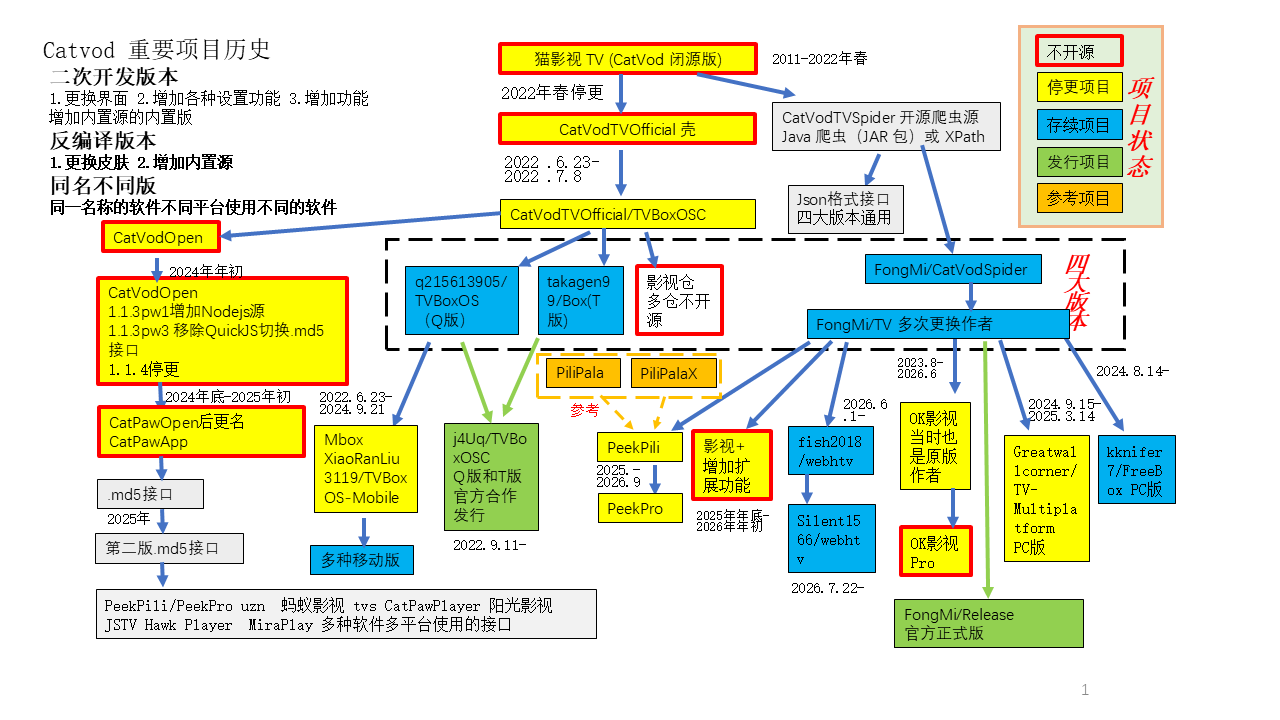
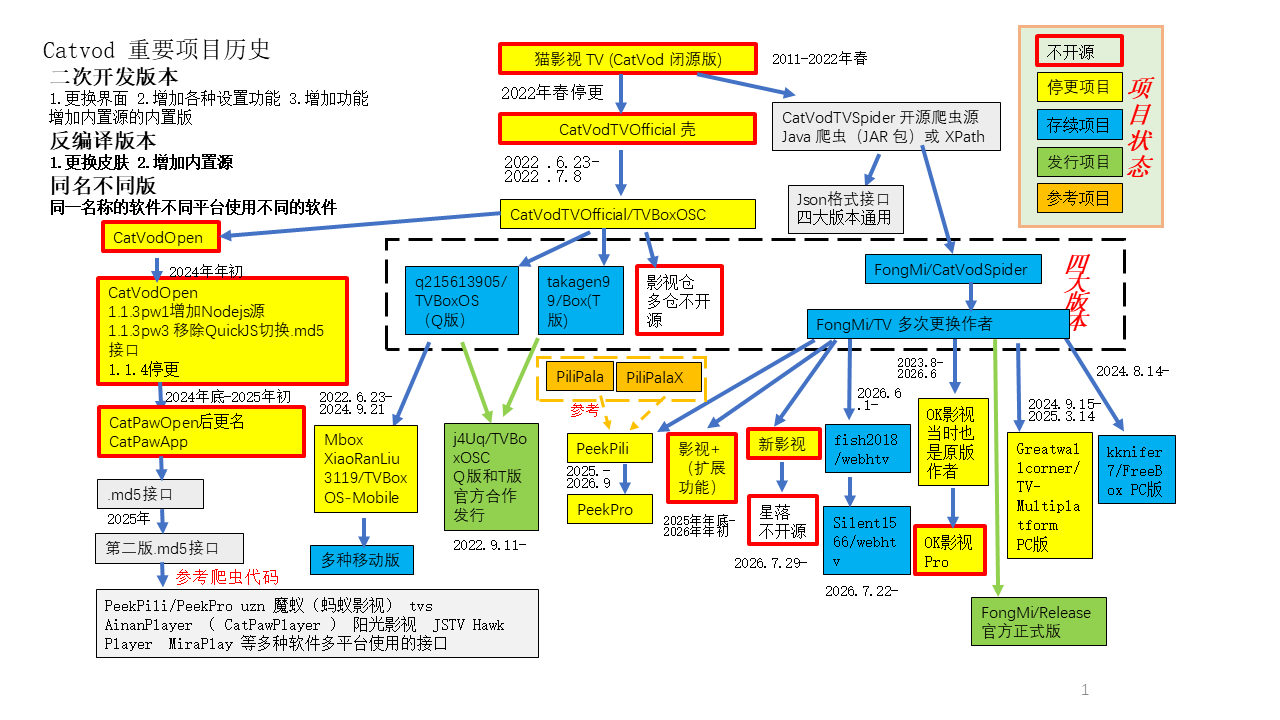
Add files via upload

Changed region(s): [[0.4062, 0.4583, 0.875, 0.9167], [0.0625, 0.825, 0.4375, 0.9167], [0.1562, 0.7944, 0.2188, 0.825]]

diff --git a/导航2.html b/导航2.html
@@ -593,7 +593,6 @@
             <div class="link-list">
                 <a href="https://kstore.cc/" target="_blank" tabindex="0">凯速</a>
                 <a href="https://fastlink.cokey.xyz/home" target="_blank" tabindex="0">酷云</a>
-                <a href="https://links.8uid.com/netdisk" target="_blank" tabindex="0">个人笔记网盘</a>
                 <a href="https://mpimg.cn" target="_blank" tabindex="0">惜染外链网盘</a>
             </div>
         </div>
@@ -692,7 +691,6 @@
         <div class="nav-group">
             <h2>影视多平台版</h2>
             <div class="link-list">
-                <a href="https://github.com/ingriddaleusag-dotcom/PickTV" target="_blank" tabindex="0">PeekPro 羊壳 停更 多平台 支持MD5等多种源</a>
                 <a href="https://github.com/kknifer7/FreeBox" target="_blank" tabindex="0">Freebox</a>
                 <a href="https://github.com/kknifer7/TV-K  " target="_blank" tabindex="0">影视-K版与 FreeBox 搭配使用</a>
                 <a href="https://github.com/Greatwallcorner/TV-Multiplatform" target="_blank" tabindex="0">TV-Multiplatform</a>
@@ -757,7 +755,6 @@
                 <a href="https://pd.qq.com/s/c2c47cpwq  " target="_blank" tabindex="0">应用管家QQ频道</a>
                 <a href="https://pd.qq.com/s/5o1prz3fe  " target="_blank" tabindex="0">应用管家下载</a>
                 <a href="https://share.feijipan.com/s/l0xzxcDY" target="_blank" tabindex="0">小飞机网盘</a>
-                <a href="https://links.8uid.com/s/5c6459b28f73e65dafa5d0c9582e40a4" target="_blank" tabindex="0">个人笔记云网盘</a>
 
             </div>
         </div>
@@ -773,9 +770,10 @@
                 <a href="https://github.com/mhmdxahmd/mafly" target="_blank" tabindex="0">maflya</a>
                 <a href="https://github.com/ggrrttyyiii/CatVodSpider" target="_blank" tabindex="0">小米</a>
                 <a href="https://github.com/lubin776/tvbox  " target="_blank" tabindex="0">lubin776  </a>
-                <a href="https://github.com/FGBLH/HKL" target="_blank" tabindex="0">海豚 </a>
+                <a href="https://github.com/phu889/kjh998" target="_blank" tabindex="0">海豚资源 原项目被封 </a>
                 <a href="https://github.com/Darklessing/catvod" target="_blank" tabindex="0">Darklessing md5源 </a>
-                <a href="https://github.com/PizazzGY" target="_blank" tabindex="0">潇洒项目 </a>
+                <a href="https://github.com/FourDSpace/NewTVBox" target="_blank" tabindex="0">潇洒项目 </a>
+                <a href="https://www.四次元.com" target="_blank" tabindex="0">潇洒导航 </a>
                 <a href="https://github.com/xiaobaitulele/xptv/" target="_blank" tabindex="0">兔兔佬项目 </a>
                 <a href="https://github.com/jsnzkpg/jsnzkpg" target="_blank" tabindex="0">裤佬</a>
             </div>
@@ -819,12 +817,14 @@
                 <a href="https://www.maflya.com" target="_blank" tabindex="0">maflya</a>
                 <a href="http://www.饭太硬.cc" target="_blank" tabindex="0">饭太硬</a>
                 <a href="https://tv.菜妮丝.top" target="_blank" tabindex="0">菜妮丝</a>
-                <a href="https://www.王二小放牛娃.top/" target="_blank" tabindex="0">王二小放牛娃</a>
+                <a href="https://www.王二小放牛娃.top/" target="_blank" tabindex="0">王二小放牛娃/唐三（暂时不可用）</a>
                 <a href="http://我不是.小不点.com" target="_blank" tabindex="0">摸鱼儿</a>
                 <a href="http://www.英格里希嗷呜.top" target="_blank" tabindex="0">嗷呜</a>
+                <a href="http://嗷呜.cc/tv" target="_blank" tabindex="0">嗷呜备用</a>
                 <a href="https://t.me/+ZdonqFdXZahjNDY1" target="_blank" tabindex="0">路也迢迢群组</a>
                 <a href="https://t.me/+wzQJ0lcidXI4N2Q1" target="_blank" tabindex="0">路也迢迢频道</a>
                 <a href="https://t.me/aya_app_tool" target="_blank" tabindex="0">a芽-APP自用🐾频道</a>
+                <a href="https://t.me/aya_app_tools" target="_blank" tabindex="0">a芽-APP🐾 Chat群组</a>
             </div>
         </div>
         <!-- 音乐软件 -->
@@ -853,7 +853,6 @@
                 <a href="https://apps.apple.com/" target="_blank" tabindex="0">Miraplay 外区ID</a>
                 <a href="https://juwanhezi.com/" target="_blank" tabindex="0">聚玩盒子 伪装上架</a>
                 <a href="https://yinghezhinan.com/ios-app/" target="_blank" tabindex="0">硬核指南 伪装上架</a>
-                <a href="https://github.com/ingriddaleusag-dotcom/PickTV  " target="_blank" tabindex="0">PeeKPro（羊壳 ，已停更，先万能签然后巨魔） </a>
                 <a href="https://github.com/YYDS678/uzVideo  " target="_blank" tabindex="0">UZ UZN</a>
                 <a href="https://github.com/ant-video/ant-video/  " target="_blank" tabindex="0">蚂蚁影视</a>
                 <a href="https://github.com/yuluoos/TVBox-tvs  " target="_blank" tabindex="0">tvs</a>

diff --git a/导航1.html b/导航1.html
@@ -1621,8 +1621,6 @@ transition: background 0.2s;
 <div class="link-text"><a target="_blank" href="https://t.me/xingluotv1">星落星河（新影视衍生） 发布</a></div>
 <div class="link-text"><a target="_blank" href="http://apck.top/fm.html">星落星河 第三方下载</a></div>
 </div><div class="tip-block">🎞影视多平台版</div><div class="link-row" tabindex="0">
-<span class="tag tag-type-ios">PeekPro 羊壳（停更MD5等多种源）</span>
-<div class="link-text"><a target="_blank" href="https://github.com/ingriddaleusag-dotcom/PickTV">PeekPro 羊壳 支持安卓 ios手机 windows macos电脑</a></div>
 </div><div class="link-row" tabindex="0">
 <span class="tag tag-type-github">FreeBox</span>
 <div class="link-text"><a target="_blank" href="https://github.com/kknifer7/FreeBox">FreeBox 支持PC</a></div>
@@ -1742,7 +1740,6 @@ transition: background 0.2s;
 <div class="link-row" tabindex="0">
 <span class="tag tag-type-github">网盘</span>
 <div class="link-text"><a target="_blank" href="https://share.feijipan.com/s/l0xzxcDY">小飞机云盘</a></div>
-<div class="link-text"><a target="_blank" href="https://links.8uid.com/s/5c6459b28f73e65dafa5d0c9582e40a4">个人笔记网盘</a></div>
 <div class="link-text"><a target="_blank" href="https://526900.xyz/">裤佬网盘</a></div>
 </div>
 </div>
@@ -1807,7 +1804,8 @@ transition: background 0.2s;
 <div class="tip-block">⭐ 潇洒项目</div>
 <div class="link-row" tabindex="0">
 <span class="tag tag-type-acc">订阅</span>
-<div class="link-text"><a target="_blank" href="https://github.com/PizazzGY">潇洒项目</a></div>
+<div class="link-text"><a target="_blank" href="https://github.com/FourDSpace/NewTVBox">潇洒项目</a></div>
+<div class="link-text"><a target="_blank" href="https://www.四次元.com">潇洒导航</a></div>
 </div>
 <div class="tip-block">⭐兔兔佬</div>
 <div class="link-row" tabindex="0">
@@ -1890,8 +1888,8 @@ transition: background 0.2s;
 <div class="link-text"><a target="_blank" href="http://www.饭太硬.cc">饭太硬</a></div>
 </div>
 <div class="link-row" tabindex="0">
-<span class="tag tag-type-web">王二小</span>
-<div class="link-text"><a target="_blank" href="https://www.王二小放牛娃.top/ ">王二小放牛娃</a></div>
+<span class="tag tag-type-web">王二小/唐三（暂时失效）</span>
+<div class="link-text"><a target="_blank" href="https://www.王二小放牛娃.top/ ">王二小放牛娃/唐三</a></div>
 </div>
 <div class="link-row" tabindex="0">
 <span class="tag tag-type-web">摸鱼儿</span>
@@ -1906,22 +1904,17 @@ transition: background 0.2s;
 <div class="link-row" tabindex="0">
 <span class="tag tag-type-web">嗷呜</span>
 <div class="link-text"><a target="_blank" href="http://www.英格里希嗷呜.top">嗷呜</a></div>
+<div class="link-text"><a target="_blank" href="http://嗷呜.cc/tv">嗷呜</a></div>
 </div>
 <div class="link-row" tabindex="0">
-<span class="tag tag-type-web">嗷呜</span>
-<div class="link-text"><a target="_blank" href="http://tvboxpage.jxjs888666.top">备用导航网页</a></div>
-</div>
-<div class="link-row" tabindex="0">
-<span class="tag tag-type-web">嗷呜</span>
-<div class="link-text"><a target="_blank" href="https://t.me/+wzQJ0lcidXI4N2Q1">路也迢迢群组</a></div>
-</div>
-<div class="link-row" tabindex="0">
-<span class="tag tag-type-web">嗷呜</span>
+<span class="tag tag-type-web">路也迢迢</span>
+<div class="link-text"><a target="_blank" href="https://t.me/+ZdonqFdXZahjNDY1">路也迢迢群组</a></div>
 <div class="link-text"><a target="_blank" href="https://t.me/+wzQJ0lcidXI4N2Q1">路也迢迢频道</a></div>
 </div>
 <div class="link-row" tabindex="0">
-<span class="tag tag-type-web">嗷呜</span>
-<div class="link-text"><a target="_blank" href="https://t.me/aya_app_tool">路也迢迢群组</a></div>
+<span class="tag tag-type-web">a芽</span>
+<div class="link-text"><a target="_blank" href="https://t.me/aya_app_tools">a芽群组</a></div>
+<div class="link-text"><a target="_blank" href="https://t.me/aya_app_tool">a芽频道</a></div>
 </div>
 </div>
 </div>
@@ -2080,9 +2073,7 @@ transition: background 0.2s;
 <div class="tip-block">🎬 自签/证书安装 开源软件 </div>
 <div class="link-row" tabindex="0">
 <span class="tag tag-type-web">开源软件</span>
-<div class="link-text"><a target="_blank" href="http://apck.top/">PeeKPro（羊壳,已停更 ，先万能签然后巨魔） </a></div>
-<div class="link-text"><a target="_blank" href="http://apck.top/">UZ UZN</a></div>
-<div class="link-text no-link">蚂蚁影视 tvs 的ios版本</div>
+<div class="link-text no-link">AinanPlayer    tvs 的ios版本</div>
 <div class="link-text no-link">⚠ 使用巨魔自签安装 或者证书安装</div>
 </div>
 <div class="tip-block">🎬 自签/证书安装 非开源软件 </div>

diff --git a/md5导航.html b/md5导航.html
@@ -400,7 +400,7 @@ const APPS = [
       { lab: "群组", url: "https://t.me/uzVideoApp", text: "t.me/uzVideoApp" },
       { lab: "md5源", url: "https://t.me/PPANZU", text: "UZN 猫爪源频道 t.me/PPANZU" }
     ] },
-  { name: "蚂蚁影视", icon: "🐜", sub: "多平台，支持猫爪源（md5 源）", tags: ["多平台", "猫爪源"],
+  { name: " 魔蚁 （蚂蚁影视）", icon: "🐜", sub: "多平台，支持猫爪源（md5 源）", tags: ["多平台", "猫爪源"],
     links: [
       { lab: "项目", url: "https://github.com/ant-video/ant-video/", text: "GitHub: ant-video/ant-video" },
       { lab: "频道", url: "https://t.me/ant_video", text: "t.me/ant_video" }
@@ -420,11 +420,6 @@ const APPS = [
       { lab: "项目", url: "https://github.com/Silent1566/webhtv", text: "GitHub: Silent1566/webhtv" },
       { lab: "下载", url: "https://github.com/Silent1566/webhtv/releases", text: "Releases 下载" }
     ] },
-  { name: "PeekPro", icon: "🦋", sub: "支持 MD5 等多种源，影视二次开发版；前身 PeekMili（羊壳），不支持 TV、支持 iOS，功能强。已停更，旧版 1.2.5 仍可用。关闭鉴权服务器，网上多为篡改版。Mac/Win 支持 t4、.md5；安卓还支持 tvbox 格式，运行 php 需装 php。iOS 不支持 PHP/py/本地包。巨魔安装：先用全能签签名打开文件访问，再巨魔安装", tags: ["停更", "iOS", "多格式"],
-    links: [
-      { lab: "项目", url: "https://github.com/ingriddaleusag-dotcom/PickTV", text: "GitHub: PickTV" },
-      { lab: "下载", url: "https://github.com/ingriddaleusag-dotcom/PickTV/releases", text: "Releases 下载" }
-    ] },
   { name: "iOS 专用", icon: "🍎", sub: "三款 iOS 平台播放器，均支持 MD5 接口", tags: ["iOS", "AppStore"],
     links: [
       { lab: "应用商店", url: "https://apps.apple.com/", text: "Apple App Store" },
@@ -436,12 +431,11 @@ const APPS = [
     links: [
       { lab: "裤佬网盘", url: "https://526900.xyz/", text: "裤佬网盘" },
       { lab: "小飞机网盘", url: "https://share.feijipan.com/s/AnEEQTwX", text: "小飞机网盘" },
-      { lab: "个人笔记云盘", url: "https://links.8uid.com/s/5c6459b28f73e65dafa5d0c9582e40a4", text: "个人笔记云盘" }
     ] }
 ];
 
 const SOURCES = [
-  { name: "牛二", icon: "🐂", sub: "五选一（任选其一即可）", tags: ["通用", "首选"],
+  { name: "唐三/王小二放牛娃", icon: "🐂", sub: "五选一（任选其一即可）", tags: ["通用", "首选"],
     links: [
       { lab: "首选", url: "https://9280.kstore.vip/cat/index.js.md5", text: "Miraplay 专用（实为通用，首选）", prefer: true },
       { lab: "源1", url: "http://wexfnw:wexfnw@cat.xn--4kq62z5rby2qupq9ub.top/index.js.md5", text: "cat.xn--4kq62z5rby2qupq9ub.top" },
@@ -535,9 +529,9 @@ const TMDB = [
 ];
 
 const OPENSOURCE = [
-  { name: "王小二放牛娃", icon: "👦", sub: "导航地址 + tg 群组，接口同「牛二」五选一", tags: ["导航"],
+  { name: "唐三/王小二放牛娃", icon: "👦", sub: "导航地址 + tg 群组，接口同「牛二」五选一", tags: ["导航"],
     links: [
-      { lab: "导航", url: "https://www.王二小放牛娃.top/", text: "王二小放牛娃.top" },
+      { lab: "导航(暂时失效）", url: "https://www.王二小放牛娃.top/", text: "王二小放牛娃.top" },
       { lab: "群组", url: "https://t.me/wangerxiaofangniuwa", text: "t.me/wangerxiaofangniuwa" },
       { lab: "首选", url: "https://9280.kstore.vip/cat/index.js.md5", text: "Miraplay 专用（实为通用，首选）", prefer: true },
       { lab: "源1", url: "http://wexfnw:wexfnw@cat.xn--4kq62z5rby2qupq9ub.top/index.js.md5", text: "cat.xn--4kq62z5rby2qupq9ub.top" },
@@ -597,9 +591,10 @@ const DOCS = [
     links: [
       { lab: "频道", url: "https://t.me/mozhaogroup", text: "t.me/mozhaogroup", prefer: true }
     ] },
-  { name: "a芽", icon: "🌱", sub: "tg 频道", tags: ["工具"],
+  { name: "a芽", icon: "🌱", sub: "tg 频道+ 群组", tags: ["工具"],
     links: [
-      { lab: "频道", url: "https://t.me/aya_app_tool", text: "t.me/aya_app_tool", prefer: true }
+      { lab: "频道", url: "https://t.me/aya_app_tool", text: "t.me/aya_app_tool", prefer: true },
+      { lab: "群组", url: "https://t.me/aya_app_tools", text: "https://t.me/aya_app_tools", prefer: true }
     ] },
   { name: "路也迢迢", icon: "🛤", sub: "tg 频道 + 群组（同 mozhaogroup）", tags: ["交流"],
     links: [

diff --git a/电脑常用资料导航.html b/电脑常用资料导航.html
@@ -543,8 +543,7 @@ const data = [
     ["惜染外链网盘","https://mpimg.cn","公众存储（不太安全）"],
     ["凯速","https://kstore.cc/","有流量限制"],
     ["酷云","https://fastlink.cokey.xyz","新平台·小容量"],
-    ["个人笔记网盘","https://links.8uid.com/netdisk","新平台·需付费认证"],
-    ["松子网盘","https://pan.szfx.top","新网盘"],
+    ["松子网盘","https://pan.szfx.top","公众存储（不太安全）"],
   ]},
 ];
 
